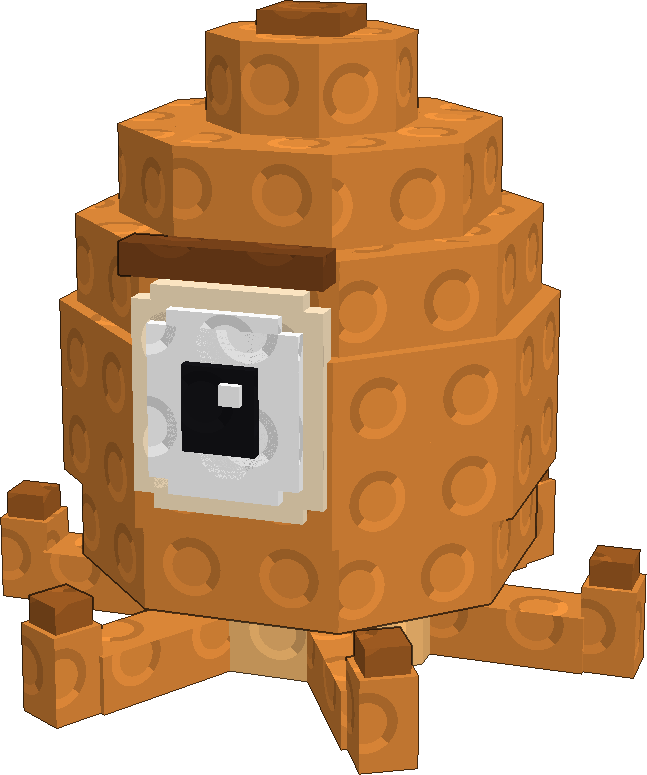
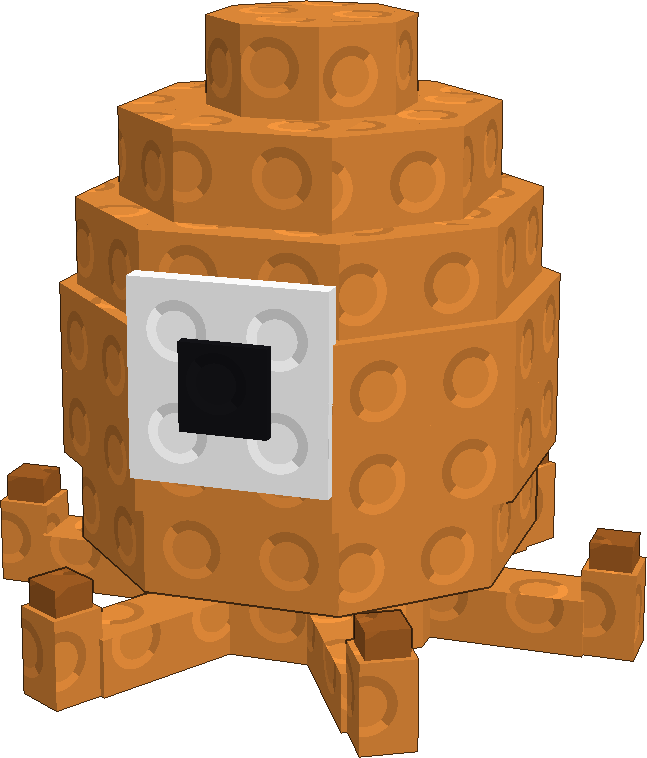
Beholder egg as plain as the Beholder: all orange, a square eye plate and pupil (QM)
Claude-Session: https://claude.ai/code/session_01PXRKW8xGVpRto6vcaYnnNZ

diff --git a/tools/beholder_egg.py b/tools/beholder_egg.py
@@ -1,7 +1,7 @@
-"""The Beholder's egg, in take C's style (tools/ocean_eggs.py): the octo shell in the
-Beholder's orange (tools/beholder_design.py) over a lighter base, its big eye on the
-front under a dark brow, and six stubby tentacles round the bottom, curling up to
-darker tips.
+"""The Beholder's egg, in take C's style (tools/ocean_eggs.py), as plain as the Beholder
+(QM, Oct 4): the octo shell all in its orange (tools/beholder_design.py), a square
+white eye plate with a square pupil on the front, and six stubby tentacles round the
+bottom, curling up to darker tips.
 
 Run from the repo root: python3 tools/beholder_egg.py
 Writes designs/eggs/c_style/BeholderEgg.bbmodel, src/shared/Eggs/BeholderEggModel.luau,
@@ -19,19 +19,15 @@ from partlib import Part, T, Ry  # noqa: E402
 
 
 def beholder_egg():
-    body, dark, light, rim = COLORS["body"], COLORS["dark"], COLORS["light"], COLORS["rim"]
-    white, black, brow = COLORS["white"], COLORS["black"], COLORS["brow"]
-    egg = shell([light, body, body, body, body, body, body])
-    # the eye on the front, layers 3 and 4: rim, white, pupil, glint
+    body, dark = COLORS["body"], COLORS["dark"]
+    white, black = COLORS["white"], COLORS["black"]
+    egg = shell([body] * 7)
+    # the eye on the front, like the Beholder's now (QM, Oct 4): a square white plate
+    # and a square pupil, nothing else
     z = WIDTHS[3] / 2
     yc = 3.5 * LH
-    for name, w, h, out, col in (("EyeRim", 0.95, 0.95, 0.06, rim), ("EyeRimY", 0.75, 1.1, 0.06, rim),
-                                 ("Eye", 0.75, 0.75, 0.12, white), ("EyeY", 0.55, 0.9, 0.12, white),
-                                 ("Pupil", 0.36, 0.42, 0.18, black)):
-        egg.block(name, (-w / 2, yc - h / 2, -z - out), (w / 2, yc + h / 2, -z + 0.05), col)
-    egg.block("Glint", (-0.12, yc + 0.04, -z - 0.22), (-0.02, yc + 0.14, -z - 0.16), white)
-    egg.block("Brow", (-0.5, yc + 0.6, -z - 0.14), (0.5, yc + 0.76, -z + 0.05), brow)
-    egg.block("TopBump", (-0.22, 7 * LH - 0.02, -0.22), (0.22, 7 * LH + 0.12, 0.22), dark)
+    egg.block("Eye", (-0.5, yc - 0.5, -z - 0.06), (0.5, yc + 0.5, -z + 0.05), white)
+    egg.block("Pupil", (-0.22, yc - 0.22, -z - 0.12), (0.22, yc + 0.22, -z - 0.05), black)
     # six tentacles out along the floor, curling up at darker tips
     for k in range(6):
         yaw = 30 + 60 * k
